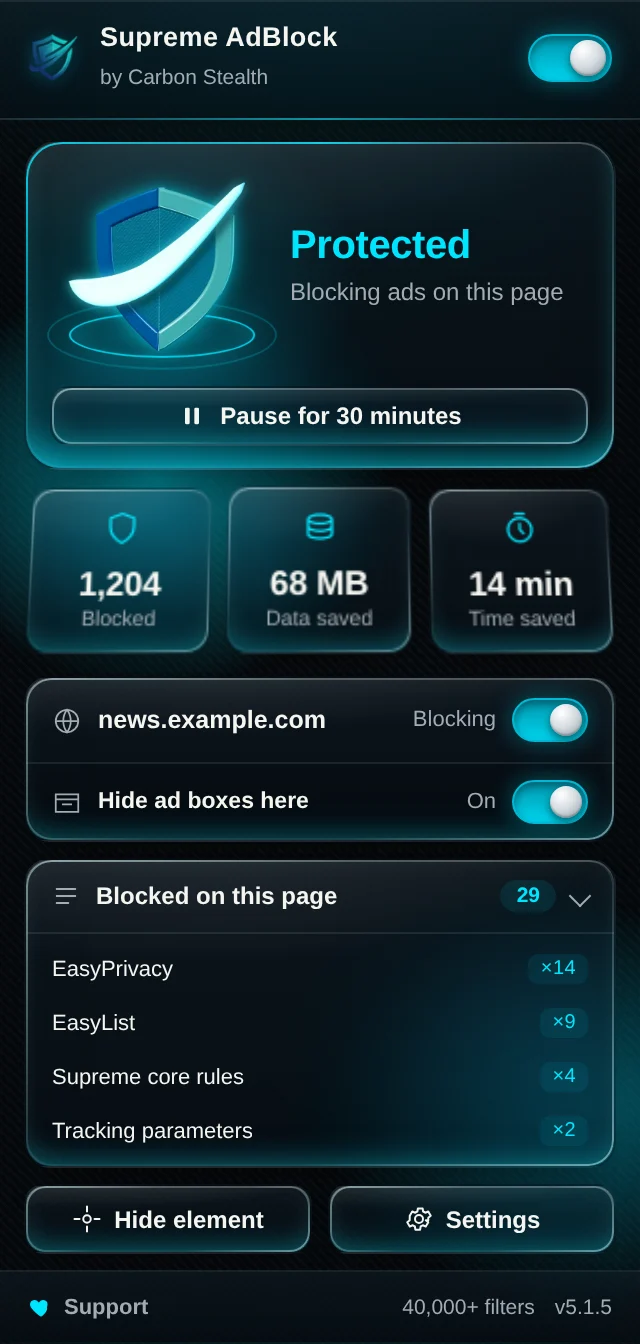
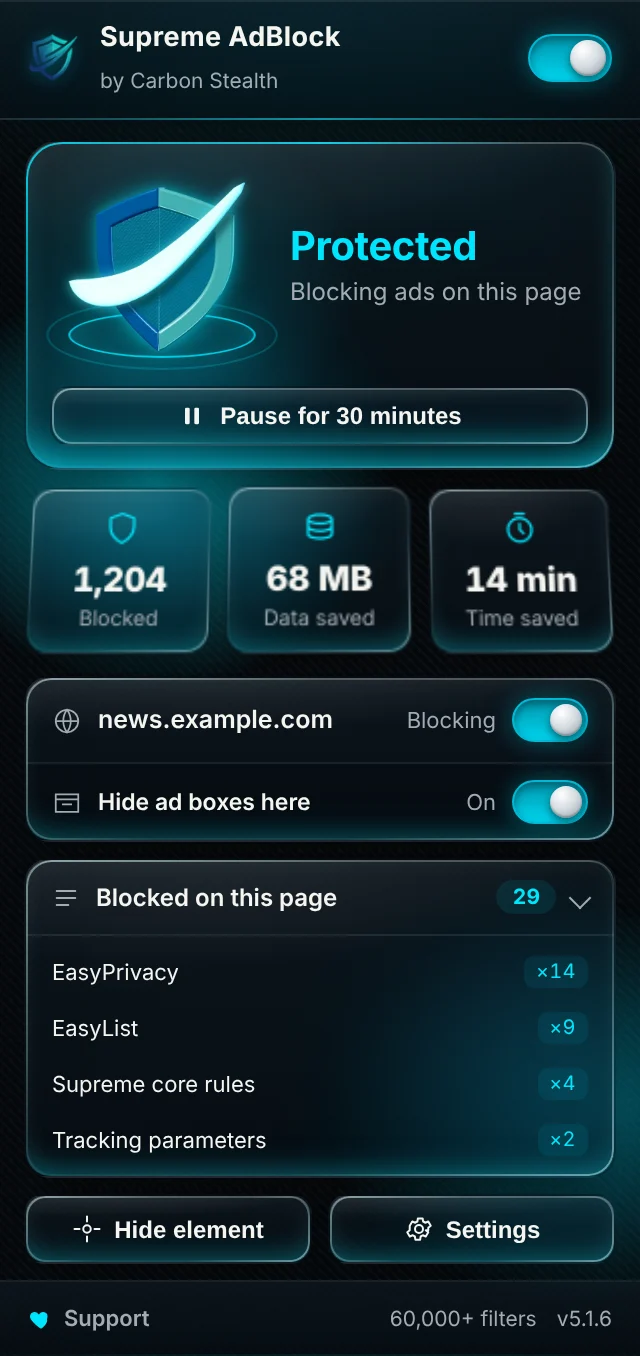
feat(adblock): сайтът показва badge-а „Established Publisher“ от Chrome Web Store
- Знак до „Add to Chrome“ и в долния призив: собствен печат с отметка (не артуоркът на
  Google), „Established Publisher · Verified on the Chrome Web Store · no history of
  violations“, линк към листинга — думите следват самия badge (проверена самоличност,
  листингът е от собственика на carbonstealth.eu, без нарушения); блясъкът минава веднъж
  и спира при „Pause motion“ / reduced motion
- FAQ „Is it safe to install?“ — на страницата и във FAQPage JSON-LD; факт в llms.txt
- Броят езици навсякъде е 73 (беше „70“): meta description, featureList, FAQ, llms.txt
- popup-shot.webp наново: версия 5.1.6 и „60,000+ filters“ като в магазина и на страницата
  (генераторът пишеше „40,000+“)
- Гейт: знакът води към листинга; „N languages“ = броя на _locales навсякъде

Claude-Session: https://claude.ai/code/session_01YTL6TEQXFoN7iiZJQts9LF

diff --git a/adblock/server/index.html b/adblock/server/index.html
@@ -4,7 +4,7 @@
 <meta charset="UTF-8" />
 <meta name="viewport" content="width=device-width, initial-scale=1.0" />
 <title>Supreme AdBlock — Free Ad Blocker for Chrome by Carbon Stealth</title>
-<meta name="description" content="Free Chrome ad blocker by Carbon Stealth: stops YouTube ads at the source, blocks trackers, pop-unders and cookie walls. 70 languages, no telemetry." />
+<meta name="description" content="Free Chrome ad blocker by Carbon Stealth: stops YouTube ads at the source, blocks trackers, pop-unders and cookie walls. 73 languages, no telemetry." />
 <meta name="keywords" content="Supreme AdBlock, Carbon Stealth, ad blocker for Chrome, free ad blocker, YouTube ad blocker, Manifest V3 ad blocker, block trackers, cookie banner blocker, pop-up blocker, privacy extension, EasyList, uBlock Origin Lite alternative" />
 <meta name="author" content="Carbon Stealth" />
 <meta name="robots" content="index, follow, max-image-preview:large, max-snippet:-1, max-video-preview:-1" />
@@ -119,6 +119,25 @@
   .btn .bi{width:18px;height:18px;flex:none;fill:currentColor}
   .btn .bi.heart{width:16px;height:16px;fill:#ff3366}
   .btn.small{padding:9px 14px;font-size:13px;border-radius:10px}
+  /* Established Publisher (Chrome Web Store) — the trust mark next to the install button. Our own seal,
+     not Google's artwork; the wording follows the store's own badge (verified identity, no violations). */
+  .verified{display:inline-flex;align-items:center;gap:12px;margin-top:18px;padding:10px 16px 10px 11px;border-radius:14px;position:relative;overflow:hidden;
+    border:1px solid rgba(0,229,255,.38);background:linear-gradient(135deg,rgba(0,229,255,.11),rgba(0,229,255,.025));color:var(--cream);text-decoration:none;
+    box-shadow:inset 0 1px 0 rgba(255,255,255,.06),0 10px 34px rgba(0,229,255,.13);transition:border-color .2s,box-shadow .2s,transform .2s}
+  .verified:hover{border-color:var(--cyan);transform:translateY(-2px);box-shadow:inset 0 1px 0 rgba(255,255,255,.08),0 14px 44px rgba(0,229,255,.24)}
+  .verified:focus-visible{outline:2px solid var(--cyan);outline-offset:3px}
+  .verified .seal{width:32px;height:32px;flex:none;filter:drop-shadow(0 0 10px rgba(0,229,255,.55))}
+  .verified .seal polygon{fill:var(--cyan);stroke:var(--cyan);stroke-width:1.2;stroke-linejoin:round}
+  .verified .seal path{fill:none;stroke:#001014;stroke-width:2.3;stroke-linecap:round;stroke-linejoin:round}
+  .verified .vt{display:flex;flex-direction:column;line-height:1.25;text-align:left}
+  .verified .vt b{font-size:14.5px;font-weight:750;letter-spacing:.2px}
+  .verified .vt small{font-size:12px;color:var(--muted);margin-top:2px}
+  .verified .ext{width:14px;height:14px;flex:none;fill:none;stroke:var(--muted2);stroke-width:1.8;stroke-linecap:round;stroke-linejoin:round}
+  .verified::after{content:"";position:absolute;inset:0;pointer-events:none;
+    background:linear-gradient(105deg,transparent 35%,rgba(255,255,255,.16) 50%,transparent 65%);transform:translateX(-130%);animation:vshine 1.4s .95s cubic-bezier(.2,.7,.2,1) both}
+  @keyframes vshine{to{transform:translateX(130%)}}
+  html.still .verified::after{animation:none;display:none}
+  .final .verified{display:flex;width:max-content;max-width:100%;margin:22px auto 0}  /* its own line, under the buttons */
   .storenote{margin-top:16px;font-size:12px;letter-spacing:1.2px;text-transform:uppercase;color:var(--muted2);font-family:var(--mono)}
   .updated{font-family:var(--mono);font-size:12px;letter-spacing:1px;color:var(--muted2);margin-top:8px;text-transform:uppercase}
 
@@ -266,13 +285,13 @@
       "applicationCategory": "BrowserApplication",
       "description": "Free ad blocker for Chrome by Carbon Stealth. Stops YouTube video ads at the source, blocks banners, pop-unders, trackers and cookie walls, with EasyList and EasyPrivacy built in and signed filter updates twice a day. No account, no telemetry.",
       "url": "https://adblock.carbonstealth.eu/",
-      "image": "https://adblock.carbonstealth.eu/popup-shot.webp?v=e51580eaba",
-      "screenshot": "https://adblock.carbonstealth.eu/popup-shot.webp?v=e51580eaba",
+      "image": "https://adblock.carbonstealth.eu/popup-shot.webp?v=faccd7bc6c",
+      "screenshot": "https://adblock.carbonstealth.eu/popup-shot.webp?v=faccd7bc6c",
       "downloadUrl": "https://chromewebstore.google.com/detail/chbjbiabkgocfbbfhednpbhfeipjcclk",
       "installUrl": "https://chromewebstore.google.com/detail/chbjbiabkgocfbbfhednpbhfeipjcclk",
       "softwareVersion": "5.1.6",
       "datePublished": "2026-06-15",
-      "dateModified": "2026-10-08",
+      "dateModified": "2026-10-09",
       "inLanguage": ["af", "am", "ar", "az", "be", "bg", "bn", "bs", "ca", "cs", "cy", "da", "de", "el", "en", "es", "es-419", "et", "eu", "fa", "fi", "fil", "fr", "gl", "gu", "he", "hi", "hr", "hu", "hy", "id", "is", "it", "ja", "ka", "kk", "km", "kn", "ko", "lt", "lv", "mk", "ml", "mn", "mr", "ms", "ne", "nl", "no", "pa", "pl", "pt-BR", "pt-PT", "ro", "ru", "si", "sk", "sl", "sq", "sr", "sv", "sw", "ta", "te", "th", "tr", "uk", "ur", "uz", "vi", "zh-CN", "zh-TW", "zu"],
       "isAccessibleForFree": true,
       "license": "https://opensource.org/license/mit",
@@ -290,7 +309,7 @@
         "Smart Detection: list-free detection of ad-sized frames",
         "Procedural cosmetic filters and filter-list subscriptions",
         "Per-site controls and a per-page breakdown of what each list blocked",
-        "Interface in 70 languages",
+        "Interface in 73 languages",
         "No account, no analytics, no telemetry"
       ],
       "publisher": { "@id": "https://carbonstealth.eu/#org" }
@@ -331,7 +350,7 @@
       "primaryImageOfPage": "https://adblock.carbonstealth.eu/og.png",
       "inLanguage": "en",
       "datePublished": "2026-06-15",
-      "dateModified": "2026-10-08",
+      "dateModified": "2026-10-09",
       "speakable": { "@type": "SpeakableSpecification", "cssSelector": [".sub", ".lead"] }
     },
     {
@@ -339,10 +358,11 @@
       "@id": "https://adblock.carbonstealth.eu/#faq",
       "mainEntity": [
         { "@type": "Question", "name": "Is Supreme AdBlock free?", "acceptedAnswer": { "@type": "Answer", "text": "Yes. Supreme AdBlock is free, with no account and no paid tier. Donations are optional and never required." } },
+        { "@type": "Question", "name": "Is it safe to install?", "acceptedAnswer": { "@type": "Answer", "text": "Yes. On the Chrome Web Store, Supreme AdBlock carries the Established Publisher badge: Google has verified the publisher's identity, the listing is published by the owner of carbonstealth.eu, and the publisher has a good record with no history of policy violations. All of the extension's code ships in the package — nothing is downloaded and run — and your browsing data never leaves your device." } },
         { "@type": "Question", "name": "Does it block YouTube ads?", "acceptedAnswer": { "@type": "Answer", "text": "Yes. Ad entries are taken out of the player data before the player reads it, so video ads never start, and ads in the feed and search are removed too. If YouTube still refuses to play on an account it has flagged, the extension steps aside for that session so videos still play." } },
         { "@type": "Question", "name": "Does it collect my data?", "acceptedAnswer": { "@type": "Answer", "text": "Your browsing data never leaves your device: no account, no analytics, no telemetry. The only automatic request to us is the filter update, about twice a day (lists you add yourself refresh from their own address); like any download it reaches our EU server with your IP address, and that request is not logged." } },
         { "@type": "Question", "name": "Will it break websites?", "acceptedAnswer": { "@type": "Answer", "text": "Rarely. If a site misbehaves, choose Site broken? in the popup: one click allows the site, or keeps network blocking and switches off only element hiding for that site, and a ready-made report lets you tell us about it." } },
-        { "@type": "Question", "name": "Which languages does it speak?", "acceptedAnswer": { "@type": "Answer", "text": "The interface is in 70 languages and follows your browser's language, right-to-left scripts included. Regional filter lists for 31 languages and regions are built in, and the one for your language turns on by itself; 4 more (Bulgarian, Polish, Nordic, Croatian) download from their authors when you switch them on." } },
+        { "@type": "Question", "name": "Which languages does it speak?", "acceptedAnswer": { "@type": "Answer", "text": "The interface is in 73 languages and follows your browser's language, right-to-left scripts included. Regional filter lists for 31 languages and regions are built in, and the one for your language turns on by itself; 4 more (Bulgarian, Polish, Nordic, Croatian) download from their authors when you switch them on." } },
         { "@type": "Question", "name": "How does it handle cookie banners?", "acceptedAnswer": { "@type": "Answer", "text": "It presses the banner's own Reject button when there is one, and Accept only when there is no other way to close it, then clears any leftover dimmed background or scroll lock. It only presses a cookie banner's own buttons — never a sign-in, OAuth or payment button, never one that submits a form. You can switch it off in Settings." } },
         { "@type": "Question", "name": "Is it an alternative to uBlock Origin or AdGuard?", "acceptedAnswer": { "@type": "Answer", "text": "Yes, as a Chrome extension. Like uBlock Origin Lite it is built on Manifest V3 with EasyList and EasyPrivacy; it adds signed filter-data updates twice a day, a dedicated YouTube pipeline, cookie-banner handling and list-free Smart Detection. AdGuard's desktop apps filter the whole system, which no browser extension can do." } },
         { "@type": "Question", "name": "Which browsers are supported?", "acceptedAnswer": { "@type": "Answer", "text": "Google Chrome and other Chromium browsers such as Microsoft Edge and Brave, version 121 or newer, installed from the Chrome Web Store." } },
@@ -392,12 +412,17 @@
           <a class="btn primary" href="https://chromewebstore.google.com/detail/chbjbiabkgocfbbfhednpbhfeipjcclk" target="_blank" rel="noopener"><svg class="bi" viewBox="0 0 24 24" aria-hidden="true"><path d="M13.5 2 4 13.2h6.1L9 22l10.5-11.6h-6.4z"/></svg>Add to Chrome — free</a>
           <a class="btn ghost" href="#why">Why it's different</a>
         </div>
+        <a class="verified" href="https://chromewebstore.google.com/detail/chbjbiabkgocfbbfhednpbhfeipjcclk" target="_blank" rel="noopener">
+          <svg class="seal" viewBox="0 0 24 24" aria-hidden="true"><polygon points="12.00,0.80 14.43,2.92 17.60,2.30 18.65,5.35 21.70,6.40 21.08,9.57 23.20,12.00 21.08,14.43 21.70,17.60 18.65,18.65 17.60,21.70 14.43,21.08 12.00,23.20 9.57,21.08 6.40,21.70 5.35,18.65 2.30,17.60 2.92,14.43 0.80,12.00 2.92,9.57 2.30,6.40 5.35,5.35 6.40,2.30 9.57,2.92"/><path d="M7.7 12.3l2.8 2.8 5.8-6"/></svg>
+          <span class="vt"><b>Established Publisher</b> <small>Verified on the Chrome Web Store · no history of violations</small></span>
+          <svg class="ext" viewBox="0 0 16 16" aria-hidden="true"><path d="M6 3h7v7M13 3 4 12"/></svg>
+        </a>
         <p class="storenote">Free on the Chrome Web Store · Chrome, Edge &amp; Brave</p>
         <p class="updated">Version 5.1.6 · updated 8 October 2026 · by Carbon Stealth</p>
       </div>
       <figure class="shot">
         <img class="ghost-shield" src="/shield-380.webp?v=090e2383f4" alt="" width="300" height="300" aria-hidden="true" />
-        <img class="ui" src="/popup-shot.webp?v=e51580eaba" width="320" height="671" fetchpriority="high" decoding="async"
+        <img class="ui" src="/popup-shot.webp?v=faccd7bc6c" width="320" height="677" fetchpriority="high" decoding="async"
              alt="The Supreme AdBlock popup: protection on, 1,204 requests blocked, 68 MB of data saved, and a per-page breakdown of what each filter list blocked." />
         <figcaption>The real popup, with demo numbers</figcaption>
       </figure>
@@ -511,7 +536,7 @@
         <li class="reveal"><div class="ic"><svg viewBox="0 0 24 24" aria-hidden="true"><path d="M4 6h16M4 12h16M4 18h10"/><circle cx="19" cy="18" r="2"/></svg></div><div><b>See what was blocked</b><span>A per-page breakdown of what each list stopped, plus an engine health card in Settings.</span></div></li>
         <li class="reveal"><div class="ic"><svg viewBox="0 0 24 24" aria-hidden="true"><rect x="3" y="11" width="18" height="10" rx="2"/><path d="M7 11V7a5 5 0 0 1 10 0v4"/></svg></div><div><b>Private by design</b><span>No account, no analytics; optional sync goes to your own browser account, never to us.</span></div></li>
         <li class="reveal"><div class="ic"><svg viewBox="0 0 24 24" aria-hidden="true"><circle cx="12" cy="12" r="8"/><circle cx="12" cy="12" r="3"/></svg></div><div><b>Focus mode</b><span>Hide chat bubbles, newsletter pop-ups, notification prompts, social widgets, AI pop-ups, “Sign in with Google” prompts and YouTube Shorts.</span></div></li>
-        <li class="reveal"><div class="ic"><svg viewBox="0 0 24 24" aria-hidden="true"><path d="M3 5h12M9 3v2c0 4-3 7-6 8M5 9c1 2 3 3.5 6 4.5M13 21l4-10 4 10M14.5 17.5h5"/></svg></div><div><b>70 languages</b><span>The interface follows your browser's language.</span></div></li>
+        <li class="reveal"><div class="ic"><svg viewBox="0 0 24 24" aria-hidden="true"><path d="M3 5h12M9 3v2c0 4-3 7-6 8M5 9c1 2 3 3.5 6 4.5M13 21l4-10 4 10M14.5 17.5h5"/></svg></div><div><b>73 languages</b><span>The interface follows your browser's language.</span></div></li>
       </ul>
     </div>
   </section>
@@ -583,10 +608,11 @@
       </div>
       <div class="faq">
         <div class="card reveal"><h3>Is Supreme AdBlock free?</h3><p>Yes. Supreme AdBlock is free, with no account and no paid tier. Donations are optional and never required.</p></div>
+        <div class="card reveal"><h3>Is it safe to install?</h3><p>Yes. On the Chrome Web Store, Supreme AdBlock carries the <a href="https://chromewebstore.google.com/detail/chbjbiabkgocfbbfhednpbhfeipjcclk" target="_blank" rel="noopener">Established Publisher</a> badge: Google has verified the publisher's identity, the listing is published by the owner of carbonstealth.eu, and the publisher has a good record with no history of policy violations. All of the extension's code ships in the package — nothing is downloaded and run — and your browsing data never leaves your device.</p></div>
         <div class="card reveal"><h3>Does it block YouTube ads?</h3><p>Yes. Ad entries are taken out of the player data before the player reads it, so video ads never start, and ads in the feed and search are removed too. If YouTube still refuses to play on an account it has flagged, the extension steps aside for that session so videos still play.</p></div>
         <div class="card reveal"><h3>Does it collect my data?</h3><p>Your browsing data never leaves your device: no account, no analytics, no telemetry. The only automatic request to us is the filter update, about twice a day (lists you add yourself refresh from their own address); like any download it reaches our EU server with your IP address, and that request is not logged. Details in the <a href="/privacy">privacy policy</a>.</p></div>
         <div class="card reveal"><h3>Will it break websites?</h3><p>Rarely. If a site misbehaves, choose <b>Site broken?</b> in the popup: one click allows the site, or keeps network blocking and switches off only element hiding for that site, and a ready-made report lets you tell us about it.</p></div>
-        <div class="card reveal"><h3>Which languages does it speak?</h3><p>The interface is in 70 languages and follows your browser's language, right-to-left scripts included. Regional filter lists for 31 languages and regions are built in, and the one for your language turns on by itself; 4 more (Bulgarian, Polish, Nordic, Croatian) download from their authors when you switch them on.</p></div>
+        <div class="card reveal"><h3>Which languages does it speak?</h3><p>The interface is in 73 languages and follows your browser's language, right-to-left scripts included. Regional filter lists for 31 languages and regions are built in, and the one for your language turns on by itself; 4 more (Bulgarian, Polish, Nordic, Croatian) download from their authors when you switch them on.</p></div>
         <div class="card reveal"><h3>How does it handle cookie banners?</h3><p>It presses the banner's own Reject button when there is one, and Accept only when there is no other way to close it, then clears any leftover dimmed background or scroll lock. It only presses a cookie banner's own buttons — never a sign-in, OAuth or payment button, never one that submits a form. You can switch it off in Settings.</p></div>
         <div class="card reveal"><h3>Is it an alternative to uBlock Origin or AdGuard?</h3><p>Yes, as a Chrome extension. Like uBlock Origin Lite it is built on Manifest V3 with EasyList and EasyPrivacy; it adds signed filter-data updates twice a day, a dedicated YouTube pipeline, cookie-banner handling and list-free Smart Detection. AdGuard's desktop apps filter the whole system, which no browser extension can do.</p></div>
         <div class="card reveal"><h3>Which browsers are supported?</h3><p>Google Chrome and other Chromium browsers such as Microsoft Edge and Brave, version 121 or newer, installed from the Chrome Web Store.</p></div>
@@ -604,6 +630,11 @@
       <a class="btn primary" href="https://chromewebstore.google.com/detail/chbjbiabkgocfbbfhednpbhfeipjcclk" target="_blank" rel="noopener"><svg class="bi" viewBox="0 0 24 24" aria-hidden="true"><path d="M13.5 2 4 13.2h6.1L9 22l10.5-11.6h-6.4z"/></svg>Add to Chrome — free</a>
       <a class="btn ghost" href="https://revolut.me/vycanismajoris" target="_blank" rel="noopener"><svg class="bi heart" viewBox="0 0 16 16" aria-hidden="true"><path d="M8 1.314C12.438-3.248 23.534 4.735 8 15-7.534 4.736 3.562-3.248 8 1.314z"/></svg>Donate via Revolut</a>
     </div>
+    <a class="verified" href="https://chromewebstore.google.com/detail/chbjbiabkgocfbbfhednpbhfeipjcclk" target="_blank" rel="noopener">
+        <svg class="seal" viewBox="0 0 24 24" aria-hidden="true"><polygon points="12.00,0.80 14.43,2.92 17.60,2.30 18.65,5.35 21.70,6.40 21.08,9.57 23.20,12.00 21.08,14.43 21.70,17.60 18.65,18.65 17.60,21.70 14.43,21.08 12.00,23.20 9.57,21.08 6.40,21.70 5.35,18.65 2.30,17.60 2.92,14.43 0.80,12.00 2.92,9.57 2.30,6.40 5.35,5.35 6.40,2.30 9.57,2.92"/><path d="M7.7 12.3l2.8 2.8 5.8-6"/></svg>
+        <span class="vt"><b>Established Publisher</b> <small>Verified on the Chrome Web Store · no history of violations</small></span>
+        <svg class="ext" viewBox="0 0 16 16" aria-hidden="true"><path d="M6 3h7v7M13 3 4 12"/></svg>
+      </a>
     <p class="mini">Donations are handled by Revolut; see the <a href="/privacy#donations">privacy policy</a>.</p>
   </div>
 
